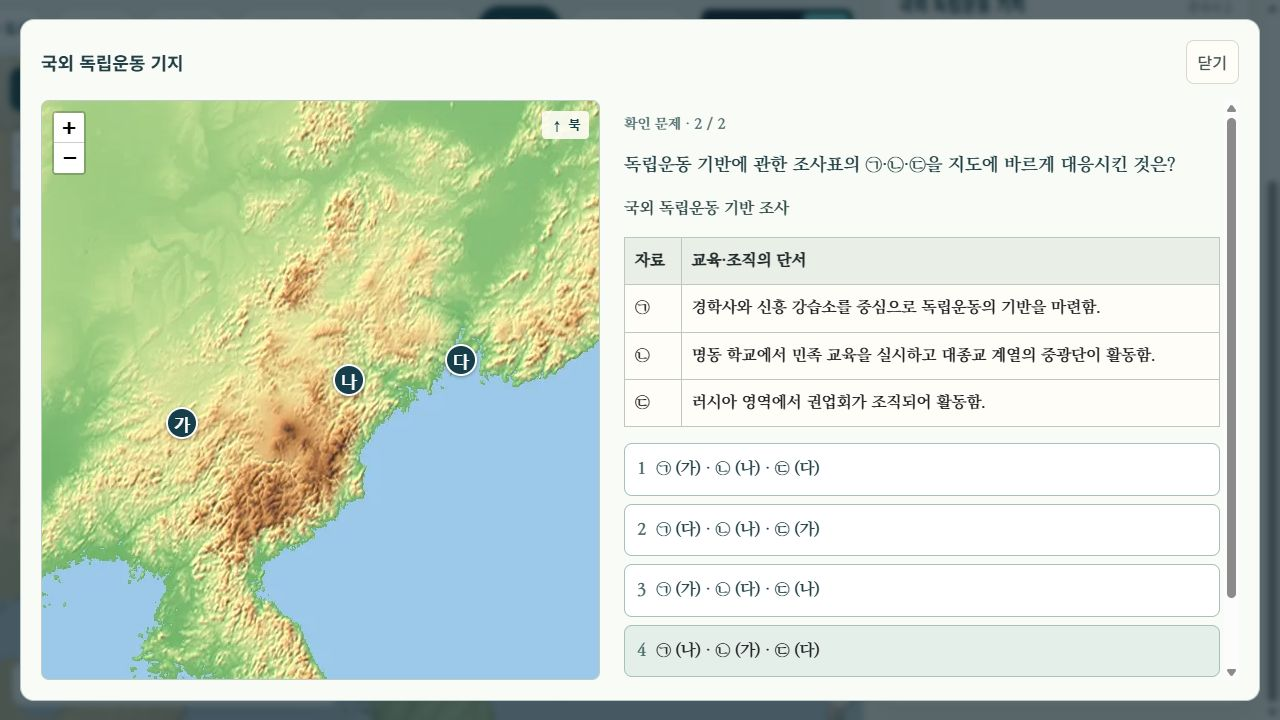
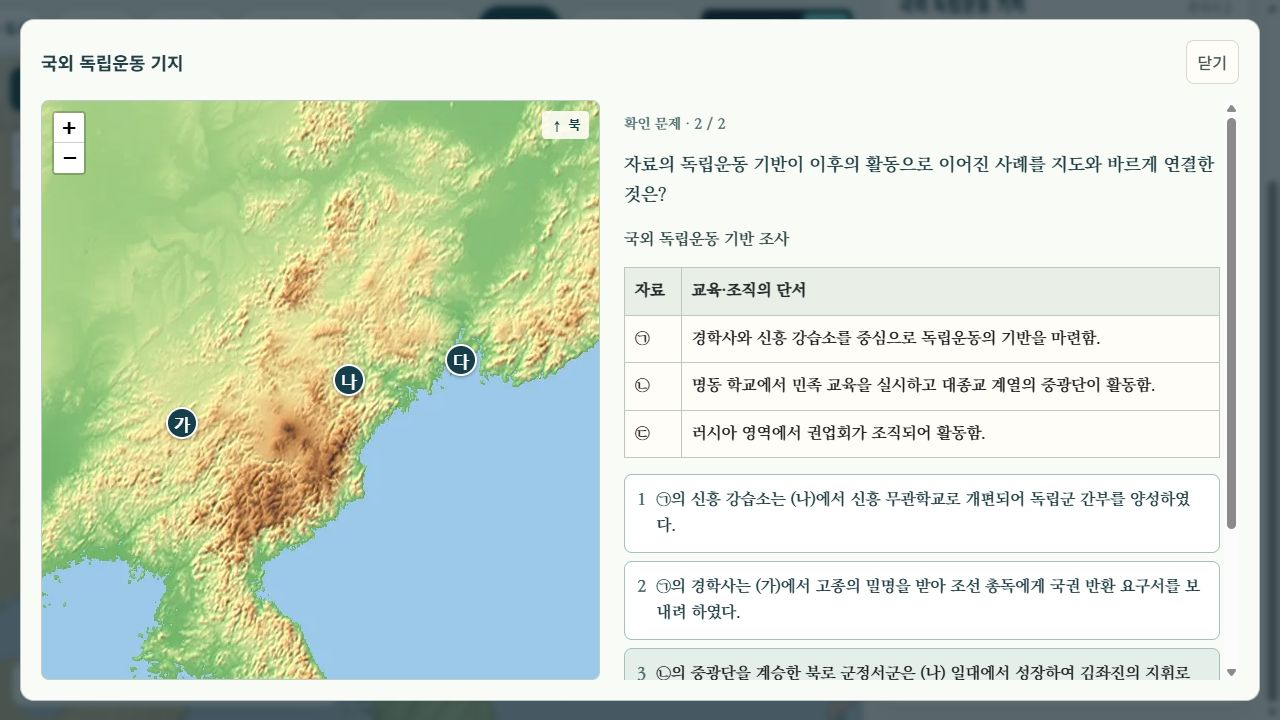
Remove repeated facts from the independence base assessment

Changed region(s): [[0.4688, 0.2139, 0.9688, 0.9472]]

diff --git a/learning/inquiry/korea-map/index.html b/learning/inquiry/korea-map/index.html
@@ -6,11 +6,11 @@
   <meta name="theme-color" content="#123c46">
   <title>국내 지도</title>
   <link rel="stylesheet" href="vendor/leaflet/leaflet.css">
-  <link rel="stylesheet" href="styles.css?v=20261011-population1">
+  <link rel="stylesheet" href="styles.css?v=20261012-nocredit">
   <link rel="stylesheet" href="study.css?v=20261011-compact1">
   <link rel="stylesheet" href="reading.css?v=20261011-analysis1">
   <link rel="stylesheet" href="scene.css?v=20260920-1">
-  <link rel="stylesheet" href="history.css?v=20261012-assessment4">
+  <link rel="stylesheet" href="history.css?v=20261012-assessment5">
   <link rel="stylesheet" href="../curriculum/school-level.css?v=20261011-floating5">
   <script src="../curriculum/school-level.js?v=20261011-question-map"></script>
   <script src="../curriculum/map-content.js?v=20261011-scope2"></script>
@@ -43,8 +43,6 @@
           <svg viewBox="0 0 24 24" aria-hidden="true"><path d="M3 19l5-8 4 4 3-6 6 10"/><circle cx="3" cy="19" r="1.4"/><circle cx="21" cy="19" r="1.4"/></svg>단면도
         </button>
         <div class="map-key" id="mapKey" aria-live="polite"></div>
-        <button class="map-credit" id="creditButton" type="button" aria-label="지도 자료 출처" aria-expanded="false" aria-controls="creditText">i</button>
-        <p class="map-credit-text" id="creditText" hidden>지도 자료: Copernicus DEM(© DLR, © Airbus, EU·ESA) · Mapzen · 한양도성 공간자료: dataandcrowd (GPL-3.0) · © OpenStreetMap 기여자 · Natural Earth · geoBoundaries</p>
         <section class="profile-panel" id="profilePanel" hidden aria-label="단면도">
           <button type="button" class="profile-close" id="profileClose" aria-label="단면도 닫기">×</button>
           <p class="profile-hint" id="profileHint"></p>
@@ -135,7 +133,6 @@
       <figure class="place-photo">
         <img id="placePhoto" alt="" hidden>
         <span class="place-photo-fallback" id="placePhotoFallback" aria-hidden="true"></span>
-        <figcaption id="placeCredit"></figcaption>
       </figure>
       <div class="place-route">
         <p class="route-ends"><span class="route-dot is-school"></span>우리 학교 <span class="route-arrow" aria-hidden="true">→</span> <span class="route-dot is-place"></span>이곳</p>
@@ -197,26 +194,26 @@
   <script src="data/heritage-data.js?v=20261006-1"></script>
   <script src="heritage.js?v=20260927-4"></script>
   <script src="data/travel-data.js?v=20260920-32"></script>
-  <script src="travel.js?v=20261011-route-clicks"></script>
+  <script src="travel.js?v=20261012-nocredit"></script>
   <script src="data/history-data.js?v=20261011-boundary-2"></script>
   <script src="data/history-bronze.js?v=20260921-1"></script>
   <script src="data/history-school.js?v=20261011-1"></script>
   <script src="data/history-additions.js?v=20261011-1"></script>
-  <script src="data/history-atlas.js?v=20261012-assessment4"></script>
+  <script src="data/history-atlas.js?v=20261012-assessment5"></script>
   <script src="data/history-questions.js?v=20261011-map-questions"></script>
   <script src="data/history-questions-modern.js?v=20261011-atlas4"></script>
   <script src="data/history-reading-questions.js?v=20261011-completion1"></script>
-  <script src="data/history-map-questions.js?v=20261012-assessment4"></script>
-  <script src="data/history-local-maps.js?v=20261012-assessment4"></script>
-  <script src="history-local-map.js?v=20261012-assessment4"></script>
-  <script src="history-practice.js?v=20261012-assessment4"></script>
+  <script src="data/history-map-questions.js?v=20261012-assessment5"></script>
+  <script src="data/history-local-maps.js?v=20261012-assessment5"></script>
+  <script src="history-local-map.js?v=20261012-assessment5"></script>
+  <script src="history-practice.js?v=20261012-assessment5"></script>
   <script src="data/history-territories.js?v=20261011-boundary-2"></script>
   <script src="data/history-war.js?v=20260921-fill-2"></script>
   <script src="history-order.js?v=20261011-retry1"></script>
   <script src="history-bronze.js?v=20261011-retry1"></script>
   <script src="data/history-point-lessons.js?v=20261011-point1"></script>
   <script src="history-point.js?v=20261011-point1"></script>
-  <script src="history.js?v=20261012-assessment4"></script>
+  <script src="history.js?v=20261012-assessment5"></script>
   <script src="climate-graph.js?v=20260920-31"></script>
   <script src="data/study-lessons.js?v=20260927-6"></script>
   <script src="study-visuals.js?v=20260927-6"></script>
@@ -226,6 +223,6 @@
   <script src="flow-layer.js?v=20260920-1"></script>
   <script src="scene-controller.js?v=20260927-4"></script>
   <script src="/assets/site-storage.js?v=20261006-1"></script>
-  <script src="app.js?v=20261011-analysis2"></script>
+  <script src="app.js?v=20261012-nocredit"></script>
 </body>
 </html>

diff --git a/learning/inquiry/korea-map/data/history-map-questions.js b/learning/inquiry/korea-map/data/history-map-questions.js
@@ -104,7 +104,7 @@
     ],
     'independence-bases':[
       [[0,1,2],'지도 (가)~(다)의 독립운동 기반을 바르게 연결한 것은?', ['(가) 경학사·신흥 강습소 / (나) 중광단·명동 학교 / (다) 권업회','(가) 권업회·대한 광복군 정부 / (나) 경학사 / (다) 중광단','(가) 흥사단 / (나) 신민회 / (다) 서전서숙','(가) 중광단 / (나) 대한인 국민회 / (다) 경학사','(가) 신흥 강습소 / (나) 권업회 / (다) 명동 학교'],0,'(가)는 서간도, (나)는 북간도, (다)는 연해주입니다. 서간도에서는 경학사와 신흥 강습소, 북간도에서는 중광단과 민족 교육 기관, 연해주에서는 권업회 등이 활동했습니다.'],
-      [[0,1,2],"독립운동 기반에 관한 조사표의 ㉠·㉡·㉢을 지도에 바르게 대응시킨 것은?",["㉠ (가) · ㉡ (나) · ㉢ (다)","㉠ (나) · ㉡ (가) · ㉢ (다)","㉠ (가) · ㉡ (다) · ㉢ (나)","㉠ (다) · ㉡ (나) · ㉢ (가)","㉠ (나) · ㉡ (다) · ㉢ (가)"],0,"㉠은 서간도 (가), ㉡은 북간도 (나), ㉢은 연해주 (다)입니다. 서간도의 경학사·신흥 강습소, 북간도의 명동 학교·중광단, 연해주의 권업회 등은 서로 다른 지역의 기반입니다. 압록강·두만강과 러시아 방면의 상대 위치를 읽어야 합니다. 학교 이름만 보고 신흥 강습소와 명동 학교를 같은 지역에 놓거나, 권업회를 간도 지역의 단체로 연결하면 틀립니다.",[],{"revision":4,"materials":[],"patternRefs":["H1-U3-R2-Q16"],"skill":"표·공간 비교","table":{"caption":"국외 독립운동 기반 조사","headers":["자료","교육·조직의 단서"],"rows":[["㉠","경학사와 신흥 강습소를 중심으로 독립운동의 기반을 마련함."],["㉡","명동 학교에서 민족 교육을 실시하고 대종교 계열의 중광단이 활동함."],["㉢","러시아 영역에서 권업회가 조직되어 활동함."]]}}]
+      [[0,1,2],"자료의 독립운동 기반이 이후의 활동으로 이어진 사례를 지도와 바르게 연결한 것은?",["㉡의 중광단을 계승한 북로 군정서군은 (나) 일대에서 성장하여 김좌진의 지휘로 청산리 전투에 참여하였다.","㉠의 신흥 강습소는 (나)에서 신흥 무관학교로 개편되어 독립군 간부를 양성하였다.","㉢의 권업회는 (다)에서 박용만이 조직한 대조선 국민 군단으로 발전하였다.","㉡의 중광단은 (나)에서 홍범도가 이끄는 대한 독립군으로 개편되었다.","㉠의 경학사는 (가)에서 고종의 밀명을 받아 조선 총독에게 국권 반환 요구서를 보내려 하였다."],0,"(가)는 서간도, (나)는 북간도, (다)는 연해주입니다. 북간도의 대종교 계열 중광단은 북로 군정서로 발전했고, 김좌진이 이끈 북로 군정서군은 1920년 청산리 전투에 참여했습니다. 신흥 강습소·신흥 무관학교는 서간도에 있었습니다. 권업회 인사들은 연해주에서 대한 광복군 정부를 수립했으며, 박용만의 대조선 국민 군단은 하와이의 조직입니다. 대한 독립군은 홍범도의 부대이며 북로 군정서와 구별해야 합니다. 국권 반환 요구서를 계획한 단체는 국내의 독립 의군부입니다.",[],{"revision":5,"materials":[],"patternRefs":["H2-U1-R2-Q07","H2-U1-R2-Q10","H2-U1-R1-Q17"],"skill":"기지·조직 계승·무장 투쟁 연결","table":{"caption":"국외 독립운동 기반 조사","headers":["자료","교육·조직의 단서"],"rows":[["㉠","경학사와 신흥 강습소를 중심으로 독립운동의 기반을 마련함."],["㉡","명동 학교에서 민족 교육을 실시하고 대종교 계열의 중광단이 활동함."],["㉢","러시아 영역에서 권업회가 조직되어 활동함."]]}}]
     ],
     'march-first':[
       [[0,1,4],'1919년 시위 기록 ㉠은 탑골 공원에서 독립 선언서 낭독 뒤 벌어진 시위, ㉡은 유관순 등이 참여한 아우내 장터 시위이다. 두 기록의 장소와 이후의 변화를 연결한 것은?', ['㉠ (나)·㉡ (다) — 상하이를 중심으로 임시 정부 통합','㉠ (가)·㉡ (나) — 보통 경찰제로 전환','㉠ (가)·㉡ (다) — 상하이를 중심으로 임시 정부 통합','㉠ (가)·㉡ (다) — 통감부 설치와 외교권 박탈','㉠ (나)·㉡ (가) — 헌병 경찰제 시행'],2,'㉠은 서울 (가), ㉡은 천안 (다)에서 벌어진 3·1운동입니다. (나)는 평양입니다. 운동 이후 국내외 임시 정부가 수립되어 상하이를 중심으로 통합되었습니다. 통감부 설치와 외교권 박탈은 1905년 을사늑약 이후의 일입니다.'],

diff --git a/docs/korea-map-review-2026-10-12/assessment/README.md b/docs/korea-map-review-2026-10-12/assessment/README.md
@@ -31,16 +31,17 @@
 전일 읽은 교과서 범위와 공식 자료 링크는 위 전일 기록에 있다. 이번 추가 대조의 쪽수는 PDF 페이지 순번이다.
 
 - 천재 한국사1 전체 교과서: 14쪽 무령왕의 22담로·성왕의 사비 천도, 39쪽 경복궁 중건·원납전·당백전, 52쪽 별무반·동북 9성 개척과 반환.
-- 천재 한국사2 1단원 교과서: 25쪽 국외 기지의 학교·단체 지도, 61쪽 조선 의용대 화북 지대·조선 의용군 및 광복군의 OSS 훈련.
+- 천재 한국사2 1단원 교과서: 25쪽 국외 기지의 학교·단체 지도, 32쪽 북로 군정서와 청산리 전투, 61쪽 조선 의용대 화북 지대·조선 의용군 및 광복군의 OSS 훈련.
 - 천재 한국사2 전체 교과서: 96쪽 부산 정치 파동·발췌 개헌과 사사오입 개헌.
 - 충주 고구려비는 남한강 유역 진출의 근거로 사용하고 건립 연도를 확정하지 않았다. 원본 그림에서 떨어져 나온 숫자만으로 연도별 통계를 만들지 않았다.
 
 ## 수정 결과
 
 - 37개 장면의 두 번째 문항 전부와 한양·광복의 첫 문항, **총 39문항**을 수정했다. 기본 확인 역할의 첫 문항 35개는 유지했다.
+- 국외 기지의 두 번째 문항은 최종 검토에서 첫 문항과 지식이 중복되는 것을 발견해 다시 수정했다. 기지의 단체명 대응에서 중광단→북로 군정서, 신흥 강습소→신흥 무관학교, 청산리 전투·하와이 국민 군단·국내 독립 의군부의 구별로 확장했다.
 - 자료 → 지점 식별 → 시기·정책·관계 판단으로 이어지는 문항, 두 자료 사이의 사건, 학교·부대·민주화 운동 비교표를 추가했다.
 - 해설에 정답의 근거와 오답이 혼동한 시대·장소·인물·제도를 적었다.
-- 문항 ID는 유지하되 수정한 문항의 `revision`을 4로 올려 이전 내용의 기록과 구별했다.
+- 문항 ID는 유지하되 수정한 문항의 `revision`을 4로 올리고, 국외 기지의 두 번째 문항은 최종 중복 검토 후 5로 올려 이전 내용의 기록과 구별했다.
 - [question-review.json](question-review.json)에 수정 39문항의 판단 유형·자료 형식·해설·원본 유형 참조를 기록했다. **`patternRefs`는 출제 방식의 비교용 참조이며, 같은 역사 사실의 직접 출처나 원문 전사를 뜻하지 않는다.**
 - 원본을 베낀 문항으로 소개하지 않는다. 앱 자료는 학습 내용을 바탕으로 재구성한 문장이다.
 
